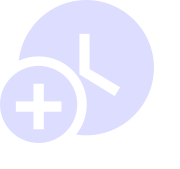
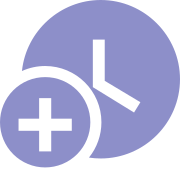
Adicionar estilizações

diff --git a/src/ui/components/period-input/period-input.tsx b/src/ui/components/period-input/period-input.tsx
@@ -1,4 +1,4 @@
-import React, { useReducer, Reducer } from 'react';
+import React, { useReducer, Reducer, useState, useEffect } from 'react';
 import { 
   View,
   Text,
@@ -10,6 +10,7 @@ import {
 
 import { Time24Hours, Period } from '@model';
 import { $C, $V } from '@global-styles';
+import { PeriodMathUtils } from '@utils';
 
 
 import { Icons } from '../icons/icons';
@@ -61,6 +62,7 @@ export function PeriodInput({
     onRemove: () => void,
     style: StyleProp<ViewStyle>
   }) {
+  const [duration, setDuration] = useState<Time24Hours>(null);
   const [{isVisible, action, time}, dispatch] = useReducer<Reducer<PeriodState, PeriodStateAction>>(
     periodReducer,
     {
@@ -98,6 +100,14 @@ export function PeriodInput({
     onRemove();
   }
 
+  const handleSuffix = (duration: Time24Hours): string => {
+    return (duration.hours > 1) ? 'horas' : 'hora';
+  }
+
+  useEffect(() => {
+    setDuration(PeriodMathUtils.calcDurationTime(value));
+  }, [value]);
+
   return (
     <View {...otherProps}>
       <View style={PeriodInputStyles.container}>
@@ -123,8 +133,12 @@ export function PeriodInput({
             <Icons.Remove large />
           </TouchableOpacity>
         </View>
-
-        <Text style={PeriodInputStyles.periodTotal}>Primeiro turno durou 02:56 horas</Text>
+        {
+          duration && duration.isNotEmpty() && 
+          <Text style={PeriodInputStyles.periodTotal}>
+            Turno durou {duration.toString()} {handleSuffix(duration)} 
+          </Text>
+        }
       </View>
 
       {
@@ -154,17 +168,7 @@ const PeriodInputStyles = StyleSheet.create({
     ...shared.container,
     marginBottom: $V.smallGutter,
     backgroundColor: $C.lightPurple,
-    shadowColor: $C.lightPurple,
-    shadowOffset: {
-      width: 0,
-      height: 6,
-    },
-    shadowOpacity: 0.39,
-    shadowRadius: 8.30,
-    
-    elevation: 13,
   },
-  // box-shadow: 0px 4px 15px 0px #686B9E26;
 
   innerContainer: {
     ...shared.container,
@@ -174,7 +178,8 @@ const PeriodInputStyles = StyleSheet.create({
     alignItems: 'center',
     justifyContent: 'space-between',
     borderWidth: 2,
-    borderColor: $C.lightPurple,
+    borderColor: $C.white,
+    borderStyle: 'dashed',
     backgroundColor: $C.white,
   },
 
@@ -183,12 +188,13 @@ const PeriodInputStyles = StyleSheet.create({
   },
 
   remove: {
-    right: -35
+    right: -30
   },
 
   periodTotal: {
     ...shared.leftFix,
     fontSize: $V.fontSizeSmall,
+    marginTop: 2,
     marginBottom: 4,
     color: $C.darkPurple,
   }

diff --git a/src/Main.tsx b/src/Main.tsx
@@ -1,9 +1,9 @@
 import React, { useState, useEffect } from 'react';
-import { StyleSheet, StatusBar, Text, View, Button } from 'react-native';
+import { StyleSheet, StatusBar, View, ScrollView } from 'react-native';
 
-import { Common, $V } from '@global-styles';
-import { Period, Time24Hours } from '@model';
-import { PeriodInput, TotalTimeCard } from '@components';
+import { Common, $V, $C } from '@global-styles';
+import { Period } from '@model';
+import { PeriodInput, TotalTimeCard, AddPeriodButton } from '@components';
 import { ObjectUtils, PeriodMathUtils } from '@utils';
 
 export default function Main() {
@@ -38,23 +38,22 @@ export default function Main() {
   
   return (
     <>
-      <StatusBar />
+      <StatusBar/>
       <View style={{...MainStyles.container, ...Common.global}}>
         <TotalTimeCard totalMinutes={totalMinutes}/>
 
-        {periods.map((period, i) => (
-          <View key={`${i}period`} style={MainStyles.periodContainer}>
-            <PeriodInput
-              onChange={(newPeriod: Period) => handleUpdatePeriod(newPeriod, i)}
-              onRemove={() => handleRemovePeriod(i)}
-              style={MainStyles.periodInput}
-              value={period}
-            />
-          </View>
-        ))}
-
-
-        <Button title="Adicionar período" onPress={handleAddPeriod} />
+        <ScrollView style={MainStyles.periodList}>
+          {periods.map((period, i) => (
+              <PeriodInput
+                onChange={(newPeriod: Period) => handleUpdatePeriod(newPeriod, i)}
+                onRemove={() => handleRemovePeriod(i)}
+                style={MainStyles.periodInput}
+                value={period}
+                key={`${i}period`}
+              />
+          ))}
+        </ScrollView>
+        <AddPeriodButton onPress={handleAddPeriod}/>
       </View>
     </>
   );
@@ -63,14 +62,14 @@ export default function Main() {
 const MainStyles = StyleSheet.create({
   container: {
     ...Common.container,
-    backgroundColor: '#fff',
+    backgroundColor: 'rgba(0, 255, 136, 0.04)',
     alignItems: 'center',
   },
-  
-  periodContainer: {
-    display: 'flex',
-    flexDirection: 'row',
-    marginBottom: $V.smallGutter
+
+  periodList: {
+    marginTop: $V.smallGutter,
+    marginBottom: 55,
+    width: '100%',
   },
 
   periodInput: {

diff --git a/src/ui/components/add-period-button/add-period-button.tsx b/src/ui/components/add-period-button/add-period-button.tsx
@@ -1,0 +1,52 @@
+import React from 'react';
+import { 
+  TouchableOpacity, 
+  StyleSheet,
+  Text,
+} from 'react-native';
+
+import { $C, $V } from '@global-styles';
+
+import { Icons } from '../icons/icons';
+
+export function AddPeriodButton({
+  onPress,
+}: {
+  onPress: () => any
+}) {
+
+  return <TouchableOpacity onPress={onPress} style={AddPeriodButtonStyles.container}>
+    <Icons.AddClock large style={AddPeriodButtonStyles.icon} />
+    <Text style={AddPeriodButtonStyles.text}>Adicionar turno</Text>
+  </TouchableOpacity>
+} 
+
+const AddPeriodButtonStyles = StyleSheet.create({
+  container: {
+    position: 'absolute',
+    bottom: 0,
+    left: $V.smallGutter,
+    right: $V.smallGutter,
+  
+    padding: $V.smallGutter,
+    flexDirection: 'row',
+    justifyContent: 'center',
+    alignItems: 'center',
+    backgroundColor: $C.white,
+    borderColor: $C.mediumPurple,
+    borderWidth: 3,
+    borderStyle: 'dashed',
+    borderTopLeftRadius: 30,
+    borderTopRightRadius: 30,
+  },
+
+  icon: {
+    marginRight: $V.smallGutter,
+  },
+
+  text: {
+    fontSize: $V.fontSizeLarge,
+    fontWeight: 'bold',
+    color: $C.mediumPurple
+  }
+});

diff --git a/src/utils/period-math.utils.ts b/src/utils/period-math.utils.ts
@@ -1,4 +1,4 @@
-import { Period } from '@model';
+import { Period, Time24Hours } from '@model';
 
 import { TimeMathUtils } from './time-math/time-math.utils';
 
@@ -6,6 +6,11 @@ function calcDuration(aPeriod: Period): number {
   return TimeMathUtils.sub(aPeriod.start, aPeriod.end).toMinutes();
 }
 
+function calcDurationTime(aPeriod: Period): Time24Hours {
+  return TimeMathUtils.sub(aPeriod.start, aPeriod.end);
+}
+
 export const PeriodMathUtils = {
   calcDuration,
+  calcDurationTime,
 };

diff --git a/src/ui/components/index.ts b/src/ui/components/index.ts
@@ -4,3 +4,4 @@ export { TimePicker } from './time-picker/time-picker';
 export { TimeButton } from './time-button/time-button';
 export { GradientBackground } from './gradient-background/gradient-background';
 export { Icons } from './icons/icons';
+export { AddPeriodButton } from './add-period-button/add-period-button';

diff --git a/src/ui/components/total-time-card/total-time-card.tsx b/src/ui/components/total-time-card/total-time-card.tsx
@@ -40,7 +40,6 @@ const Shared = StyleSheet.create({
 const TotalTimeCardStyles = StyleSheet.create({
   container: {
     marginTop: $V.smallGutter,
-    marginBottom: $V.largeGutter,
     paddingHorizontal: $V.largeGutter,
     paddingVertical: $V.smallGutter,
     borderRadius: 30,

diff --git a/src/model/time/time-24-hours.model.ts b/src/model/time/time-24-hours.model.ts
@@ -95,6 +95,10 @@ export class Time24Hours {
     return this.hours === 0;
   }
 
+  public isNotEmpty(): boolean {
+    return this.toMinutes() !== 0;
+  }
+
   set minutes(minute: number) {  
     this.date.setMinutes(minute);
   }

diff --git a/src/ui/components/icons/icons.tsx b/src/ui/components/icons/icons.tsx
@@ -38,7 +38,7 @@ const IconStyles = StyleSheet.create({
   },
 
   large: {
-    width: 50,
-    height: 50,
+    width: 40,
+    height: 40,
   }
 });

diff --git a/src/global-styles.ts b/src/global-styles.ts
@@ -24,6 +24,6 @@ export const Common = {
 
   container: {
     flex: 1,
-    margin: $V.gutter,
+    padding: $V.gutter,
   },
 };
